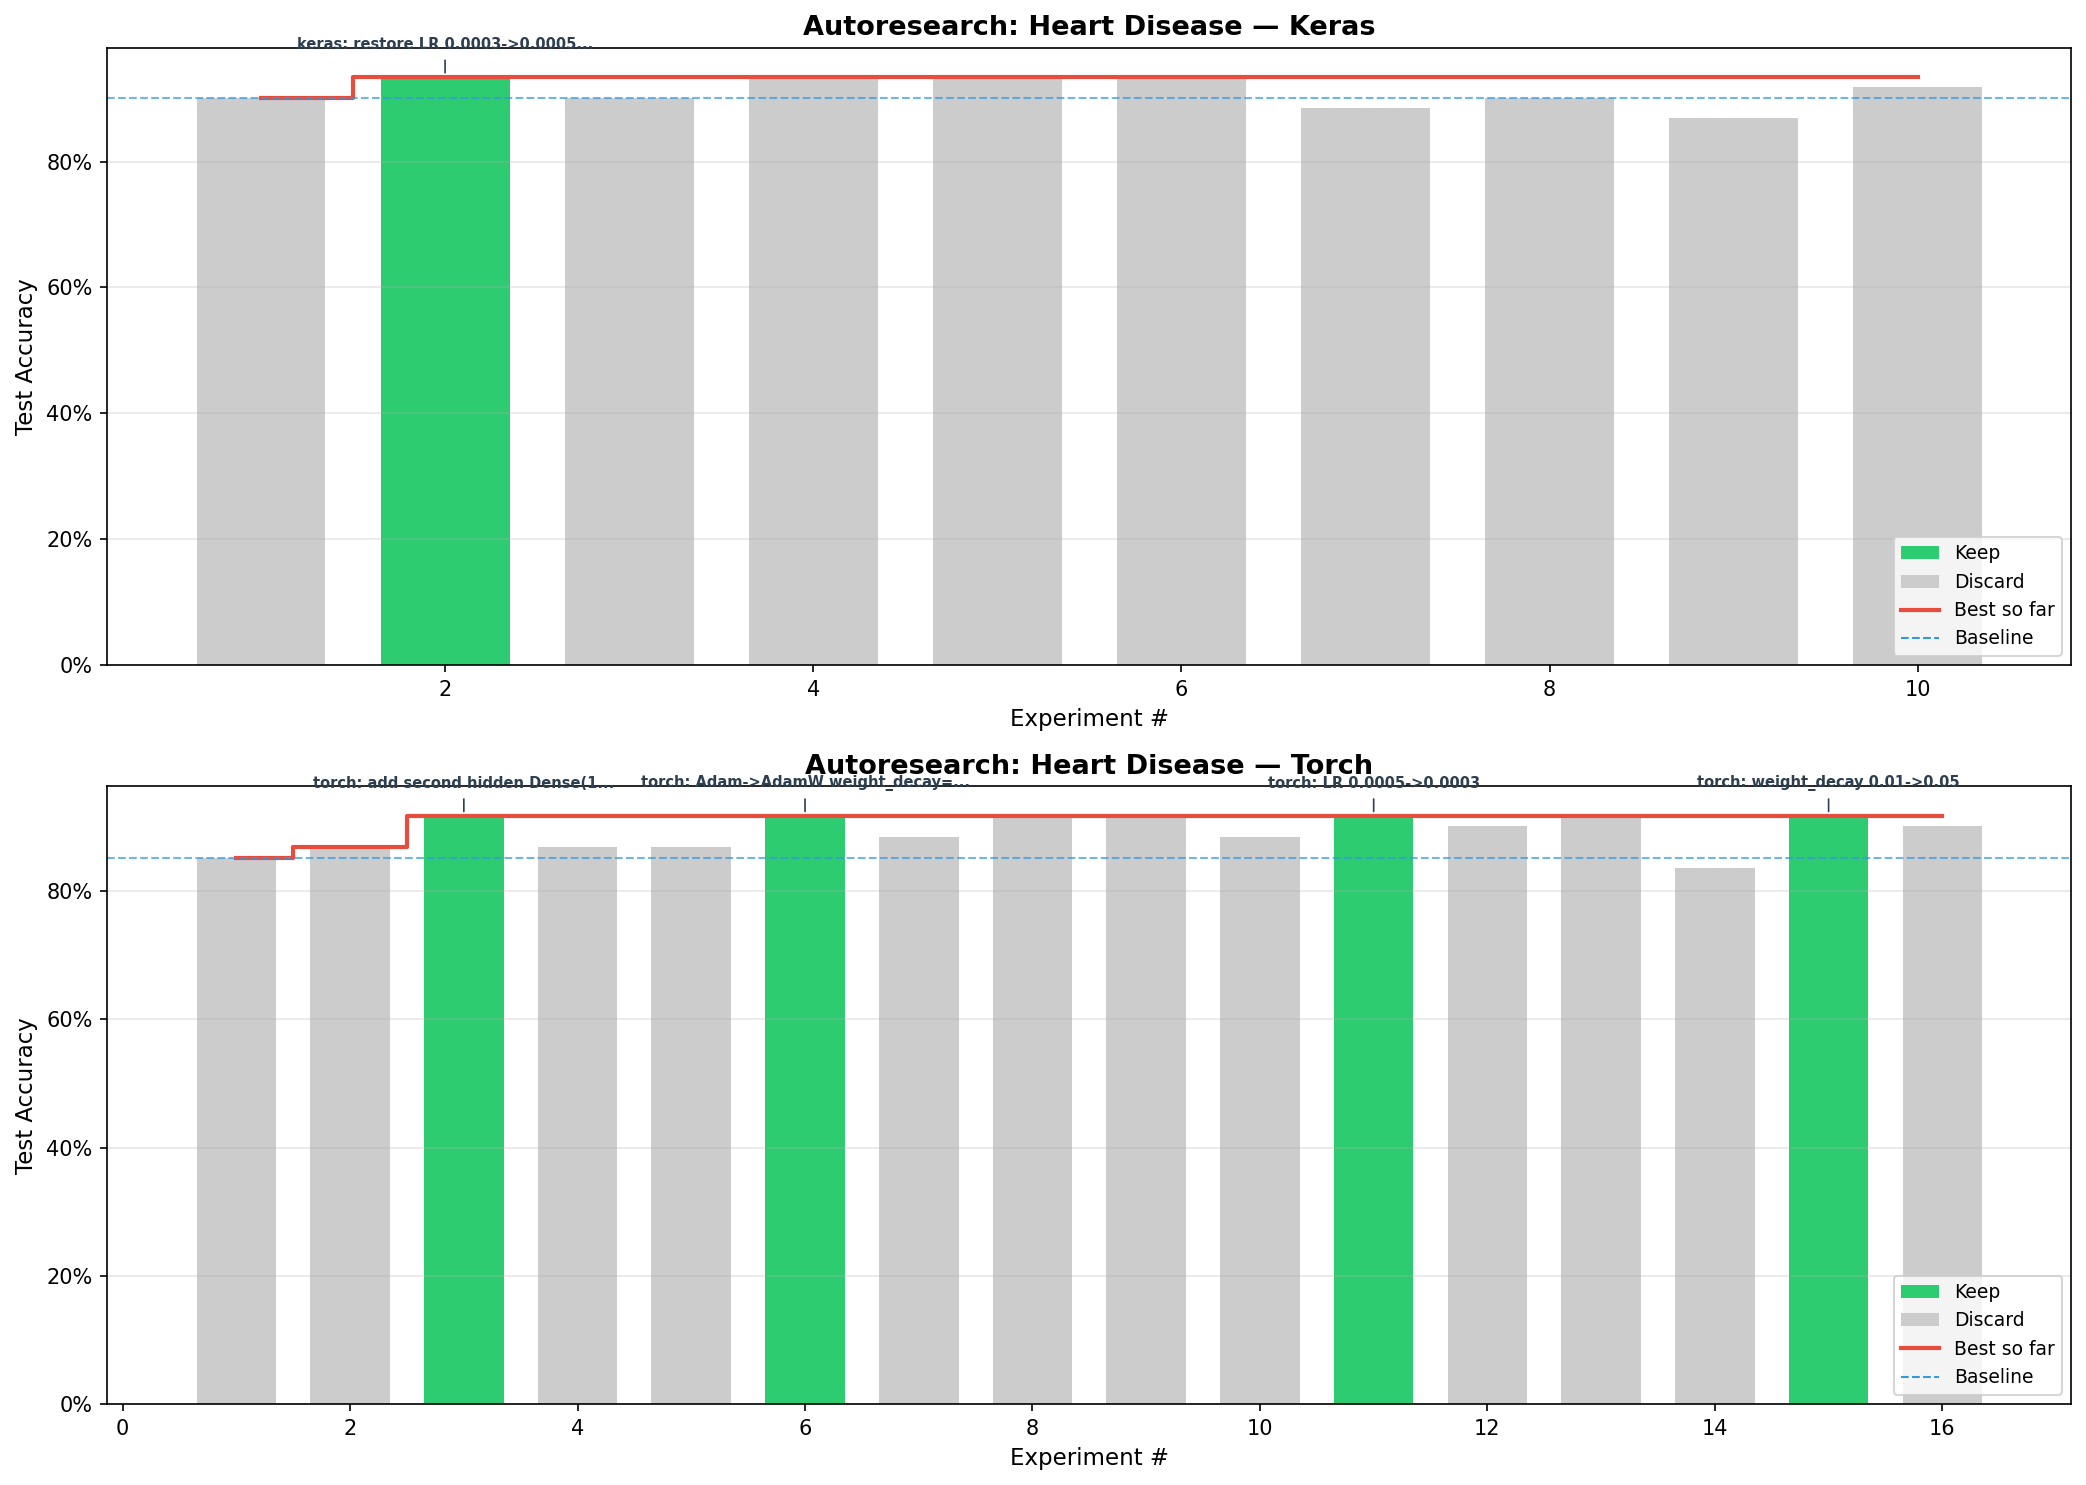
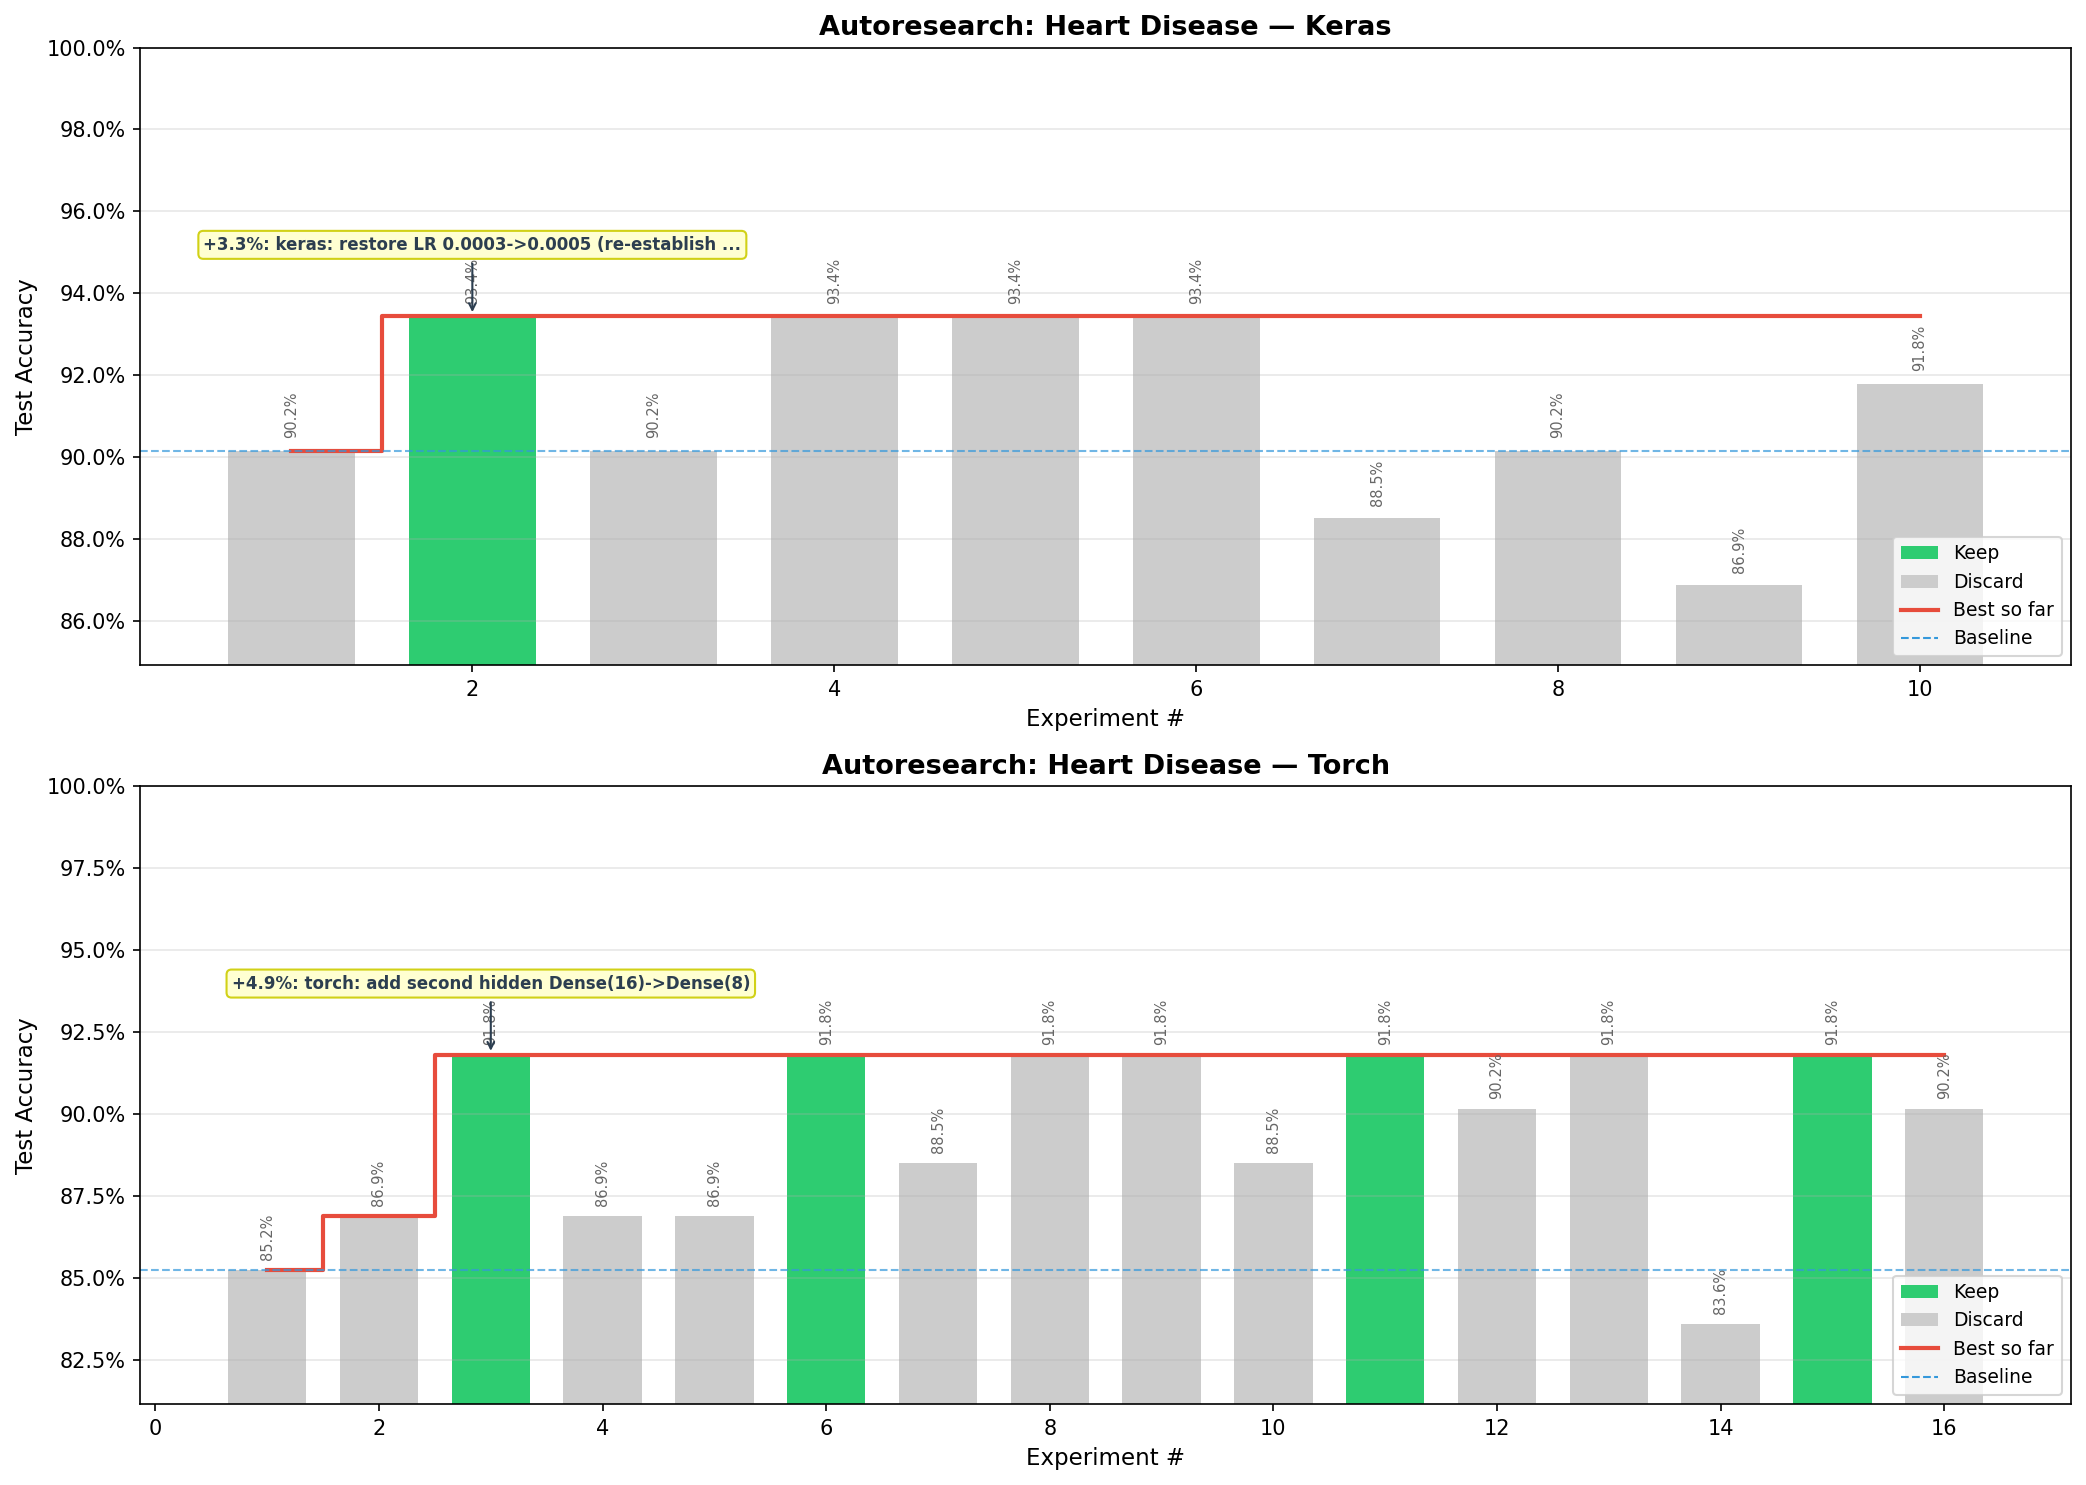
Improve experiment charts and expand key findings in READMEs
Chart improvements (plot_results.py):
- Zoom y-axis to relevant data range instead of starting at 0%
- Add accuracy % label on every bar for easy comparison
- Annotate only experiments that set a new best (with delta %)
- Stagger annotations with yellow callout boxes to avoid overlap
- Skip annotations where improvement rounds to 0%

README improvements:
- 1_heart-disease: expand Key Findings with detailed explanations
  for each improvement and failure, matching fashion-mnist format
- 3_fashion_mnist_cnn: add technical reasoning to each finding

diff --git a/plot_results.py b/plot_results.py
@@ -55,24 +55,52 @@ def plot_chart(ax, sub_df, chart_title):
     best_so_far = sub_df['test_accuracy'].cummax()
     ax.step(sub_df.index, best_so_far, where='mid', color='#e74c3c', linewidth=2)
 
-    for i, row in sub_df[sub_df['status'] == 'keep'].iterrows():
-        label = row['description']
-        if len(label) > 35:
-            label = label[:32] + '...'
-        ax.annotate(
-            label,
-            xy=(i, row['test_accuracy']),
-            xytext=(0, 12), textcoords='offset points',
-            ha='center', va='bottom', fontsize=7,
-            fontweight='bold', color='#2c3e50',
-            arrowprops=dict(arrowstyle='-', color='#2c3e50', lw=0.8),
-        )
+    # Add accuracy % label on top of each bar
+    for i, row in sub_df.iterrows():
+        ax.text(i, row['test_accuracy'] + 0.003, f"{row['test_accuracy']:.1%}",
+                ha='center', va='bottom', fontsize=7, color='#666666', rotation=90)
+
+    # Annotate only experiments that set a new best (best_so_far increases)
+    prev_best = 0.0
+    annotation_idx = 0
+    for i, row in sub_df.iterrows():
+        if best_so_far[i] > prev_best and row['status'] == 'keep':
+            delta = row['test_accuracy'] - (prev_best if prev_best > 0 else row['test_accuracy'])
+            # Skip annotations where improvement rounds to 0.0%
+            if prev_best > 0 and delta < 0.0005:
+                prev_best = best_so_far[i]
+                continue
+            label = row['description']
+            if len(label) > 50:
+                label = label[:47] + '...'
+            if delta > 0:
+                label = f"+{delta:.1%}: {label}"
+
+            # Stagger annotation heights to avoid overlap
+            y_offset = 30 + (annotation_idx % 3) * 25
+            ax.annotate(
+                label,
+                xy=(i, row['test_accuracy']),
+                xytext=(0, y_offset), textcoords='offset points',
+                ha='center', va='bottom', fontsize=8,
+                fontweight='bold', color='#2c3e50',
+                bbox=dict(boxstyle='round,pad=0.3', facecolor='#ffffcc', edgecolor='#cccc00', alpha=0.9),
+                arrowprops=dict(arrowstyle='->', color='#2c3e50', lw=1.0),
+            )
+            annotation_idx += 1
+        prev_best = best_so_far[i]
 
     ax.set_xlabel('Experiment #', fontsize=11)
     ax.set_ylabel('Test Accuracy', fontsize=11)
     ax.set_title(chart_title, fontsize=13, fontweight='bold')
-    ax.yaxis.set_major_formatter(mticker.PercentFormatter(xmax=1, decimals=0))
+    ax.yaxis.set_major_formatter(mticker.PercentFormatter(xmax=1, decimals=1))
+
+    # Zoom y-axis to relevant range instead of starting at 0
     if len(sub_df) > 0:
+        y_min = sub_df['test_accuracy'].min()
+        y_max = sub_df['test_accuracy'].max()
+        margin = (y_max - y_min) * 0.3 if y_max > y_min else 0.05
+        ax.set_ylim(max(0, y_min - margin), min(1.0, y_max + margin + 0.08))
         ax.axhline(y=sub_df['test_accuracy'].iloc[0], color='#3498db', linestyle='--', linewidth=1, alpha=0.7)
     ax.grid(axis='y', alpha=0.3)
 

diff --git a/1_heart-disease/README.md b/1_heart-disease/README.md
@@ -39,18 +39,26 @@ python training.py --torch   # PyTorch
 
 ## Key findings
 
-**Keras (10 experiments):**
-- Original baseline was already well-optimized at 93.44%
-- No change improved accuracy — wider layers, deeper networks, different optimizers, regularization, batch sizes all equal or worse
+### What improved accuracy
 
-**PyTorch (16 experiments):**
-- Baseline started at 86.89% with the same architecture as Keras
-- Adding a second hidden layer Dense(8) jumped to 91.80%
-- AdamW with weight decay and lower LR improved loss without changing accuracy
-**Why PyTorch trails Keras by ~1.6%:**
+- **Adding a second hidden layer Dense(8) — PyTorch 86.89% → 91.80%** — The single biggest jump. With only 21 input features and a tiny dataset, a single Dense(16) layer can't learn enough non-linear feature combinations. The extra Dense(8) layer lets the network compose features hierarchically — first layer finds patterns, second layer combines them. This was the key to closing the gap with Keras.
+
+- **AdamW with weight decay — PyTorch** — Switching from Adam to AdamW with weight_decay=0.05 didn't change test accuracy (still 91.80%) but significantly improved validation loss (0.29 → 0.24). Weight decay penalizes large weights, pushing toward simpler solutions. On a dataset this small, preventing the model from memorizing a few outlier patients matters.
+
+- **Lower learning rate 0.0005 → 0.0003 — PyTorch** — Again same accuracy but better loss. The deeper architecture needed a gentler learning rate to converge to a better minimum rather than bouncing around it.
+
+- **Keras baseline already optimal at 93.44%** — The original single-layer architecture was already the best for Keras. 10 experiments (wider layers, deeper networks, AdamW, L2, different batch sizes, more epochs) all matched or worsened accuracy. When a simple model already fits the data well, adding complexity just adds ways to overfit.
+
+### What didn't help
+
+- **Batch normalization** — With only 242 training samples and batch size 32, each batch has ~7 samples. BatchNorm statistics are too noisy at this scale to be useful, and added parameters just increase overfitting risk.
+- **L2 regularization** — Hurt accuracy (93.44% → 88.52% in Keras). The models are already small enough that weight magnitudes aren't a problem.
+- **He weight initialization** — Dropped PyTorch to 83.61%. PyTorch's default Kaiming uniform init already uses a similar strategy; switching to the exact He normal variant changed the starting point in a way that the optimizer couldn't recover from on this tiny dataset.
+- **LeakyReLU, wider/narrower layers** — No improvement. The bottleneck isn't activation saturation or model capacity — it's the limited data.
+- **More epochs (500 → 800–1000)** — Same or worse accuracy with increasing validation loss. Classic overfitting on a small dataset.
+- **Removing Dropout** — Accuracy dropped (91.80% → 86.89% in PyTorch). With so few samples, Dropout is essential to prevent co-adaptation of neurons.
+- **Larger batch sizes (32 → 64)** — Reduced accuracy in Keras (93.44% → 86.89%). Smaller batches provide more gradient noise, which acts as implicit regularization — important when you only have 242 training samples.
+
+### Why PyTorch trails Keras by ~1.6%
+
 The same single-layer architecture gets 93.44% in Keras but only 86.89% in PyTorch. Testing with matched validation splits (Keras takes the last 20%, PyTorch uses a random permutation) closed the gap partially (86.89% → 88.52%), but ~5 points remain due to different default weight initialization between the frameworks. With only 303 samples, these small differences get amplified. PyTorch needed a deeper architecture to compensate.
-
-**What didn't help (either framework):**
-- Batch normalization, L2 regularization, He weight init
-- LeakyReLU, wider/narrower layers, different batch sizes
-- More epochs beyond 500 (overfitting)

diff --git a/3_fashion_mnist_cnn/README.md b/3_fashion_mnist_cnn/README.md
@@ -39,12 +39,17 @@ Dense(10, softmax)
 ## Key findings
 
 **What improved accuracy:**
-- Deeper/wider conv blocks (32 → 64-128-256) with BatchNorm + Dropout
-- AdamW with CosineDecay LR + warmup (93.32% → 94.01%)
-- tf.data augmentation: flip + reflect pad + random crop (94.01% → 94.71%)
-- More epochs with higher LR and warmup (94.71% → 94.87%)
+
+- **Deeper/wider conv blocks with BatchNorm + Dropout (87.01% → 93.32%)** — The baseline had only 2 conv layers with 32 filters each. Scaling to 3 blocks (64-128-256) with paired convolutions gives the network enough capacity to learn hierarchical features: edges → textures → garment structures. BatchNorm stabilizes training at each layer, and per-block Dropout(0.25) prevents overfitting while keeping enough signal flowing.
+
+- **AdamW with CosineDecay LR + warmup (93.32% → 94.01%)** — CosineDecay starts with a warmup phase (small LR while weights are random), then takes large steps to explore broadly, and gradually anneals to settle precisely into a minimum. AdamW's decoupled weight decay regularizes without interfering with the adaptive learning rates.
+
+- **tf.data augmentation: flip + reflect pad + random crop (94.01% → 94.71%)** — Unlike the MLP project where augmentation hurt, CNNs are designed to be spatially aware. Horizontal flips teach left-right invariance (a shoe is a shoe facing either way). Reflect padding + random crop simulates slight translations without introducing black borders. This effectively multiplies the training set size.
+
+- **More epochs with higher initial LR and warmup (94.71% → 94.87%)** — With augmentation generating new variations each epoch, the network benefits from more passes. A higher initial LR (2e-3 vs 1e-3) explores more aggressively during the cosine decay middle phase.
 
 **What didn't help:**
-- GELU activation (94.76% but 18x slower on CPU — not worth it)
-- Stronger augmentation with brightness jitter (worse)
-- Lower dropout + higher weight decay (test accuracy worse)
+
+- **GELU activation** — Achieved 94.76% (comparable) but was 18x slower on CPU than ReLU. CNNs apply activations millions of times per forward pass, so the smooth gradient benefit doesn't justify the cost. GELU helped the MLP project where the bottleneck was expressiveness, not here.
+- **Stronger augmentation with brightness jitter** — Adding brightness variation introduced too much noise. Fashion-MNIST is grayscale with consistent lighting — jittering brightness changes the semantic content (dark vs light clothing).
+- **Lower dropout + higher weight decay** — Reducing Dropout from 0.25 to 0.15 while increasing weight decay wasn't a good trade. Dropout's stochastic regularization is more effective for conv layers than the uniform penalty of weight decay.

diff --git a/README.md b/README.md
@@ -1,6 +1,6 @@
 # Deep Learning
 
-Projects for MIT Deep Learning certification. Each project starts with a baseline model based on the notebook covered in the class, then uses an autonomous experiment harness ([autoresearch](#autoresearch)) to iteratively tune architecture, hyperparameters, and regularization. The other extension is that we also have pytorch implementations for each of the projects in addtion to keras.
+Projects for the [MIT Hands On Deep Learning course](https://ocw.mit.edu/courses/15-773-hands-on-deep-learning-spring-2024/). Each project starts with a baseline model based on the notebook covered in the class, then uses an autonomous experiment harness ([autoresearch](#autoresearch)) to iteratively tune architecture, hyperparameters, and regularization. The other extension is that we also have PyTorch implementations for each of the projects in addition to Keras.
 
 ## Results
 
